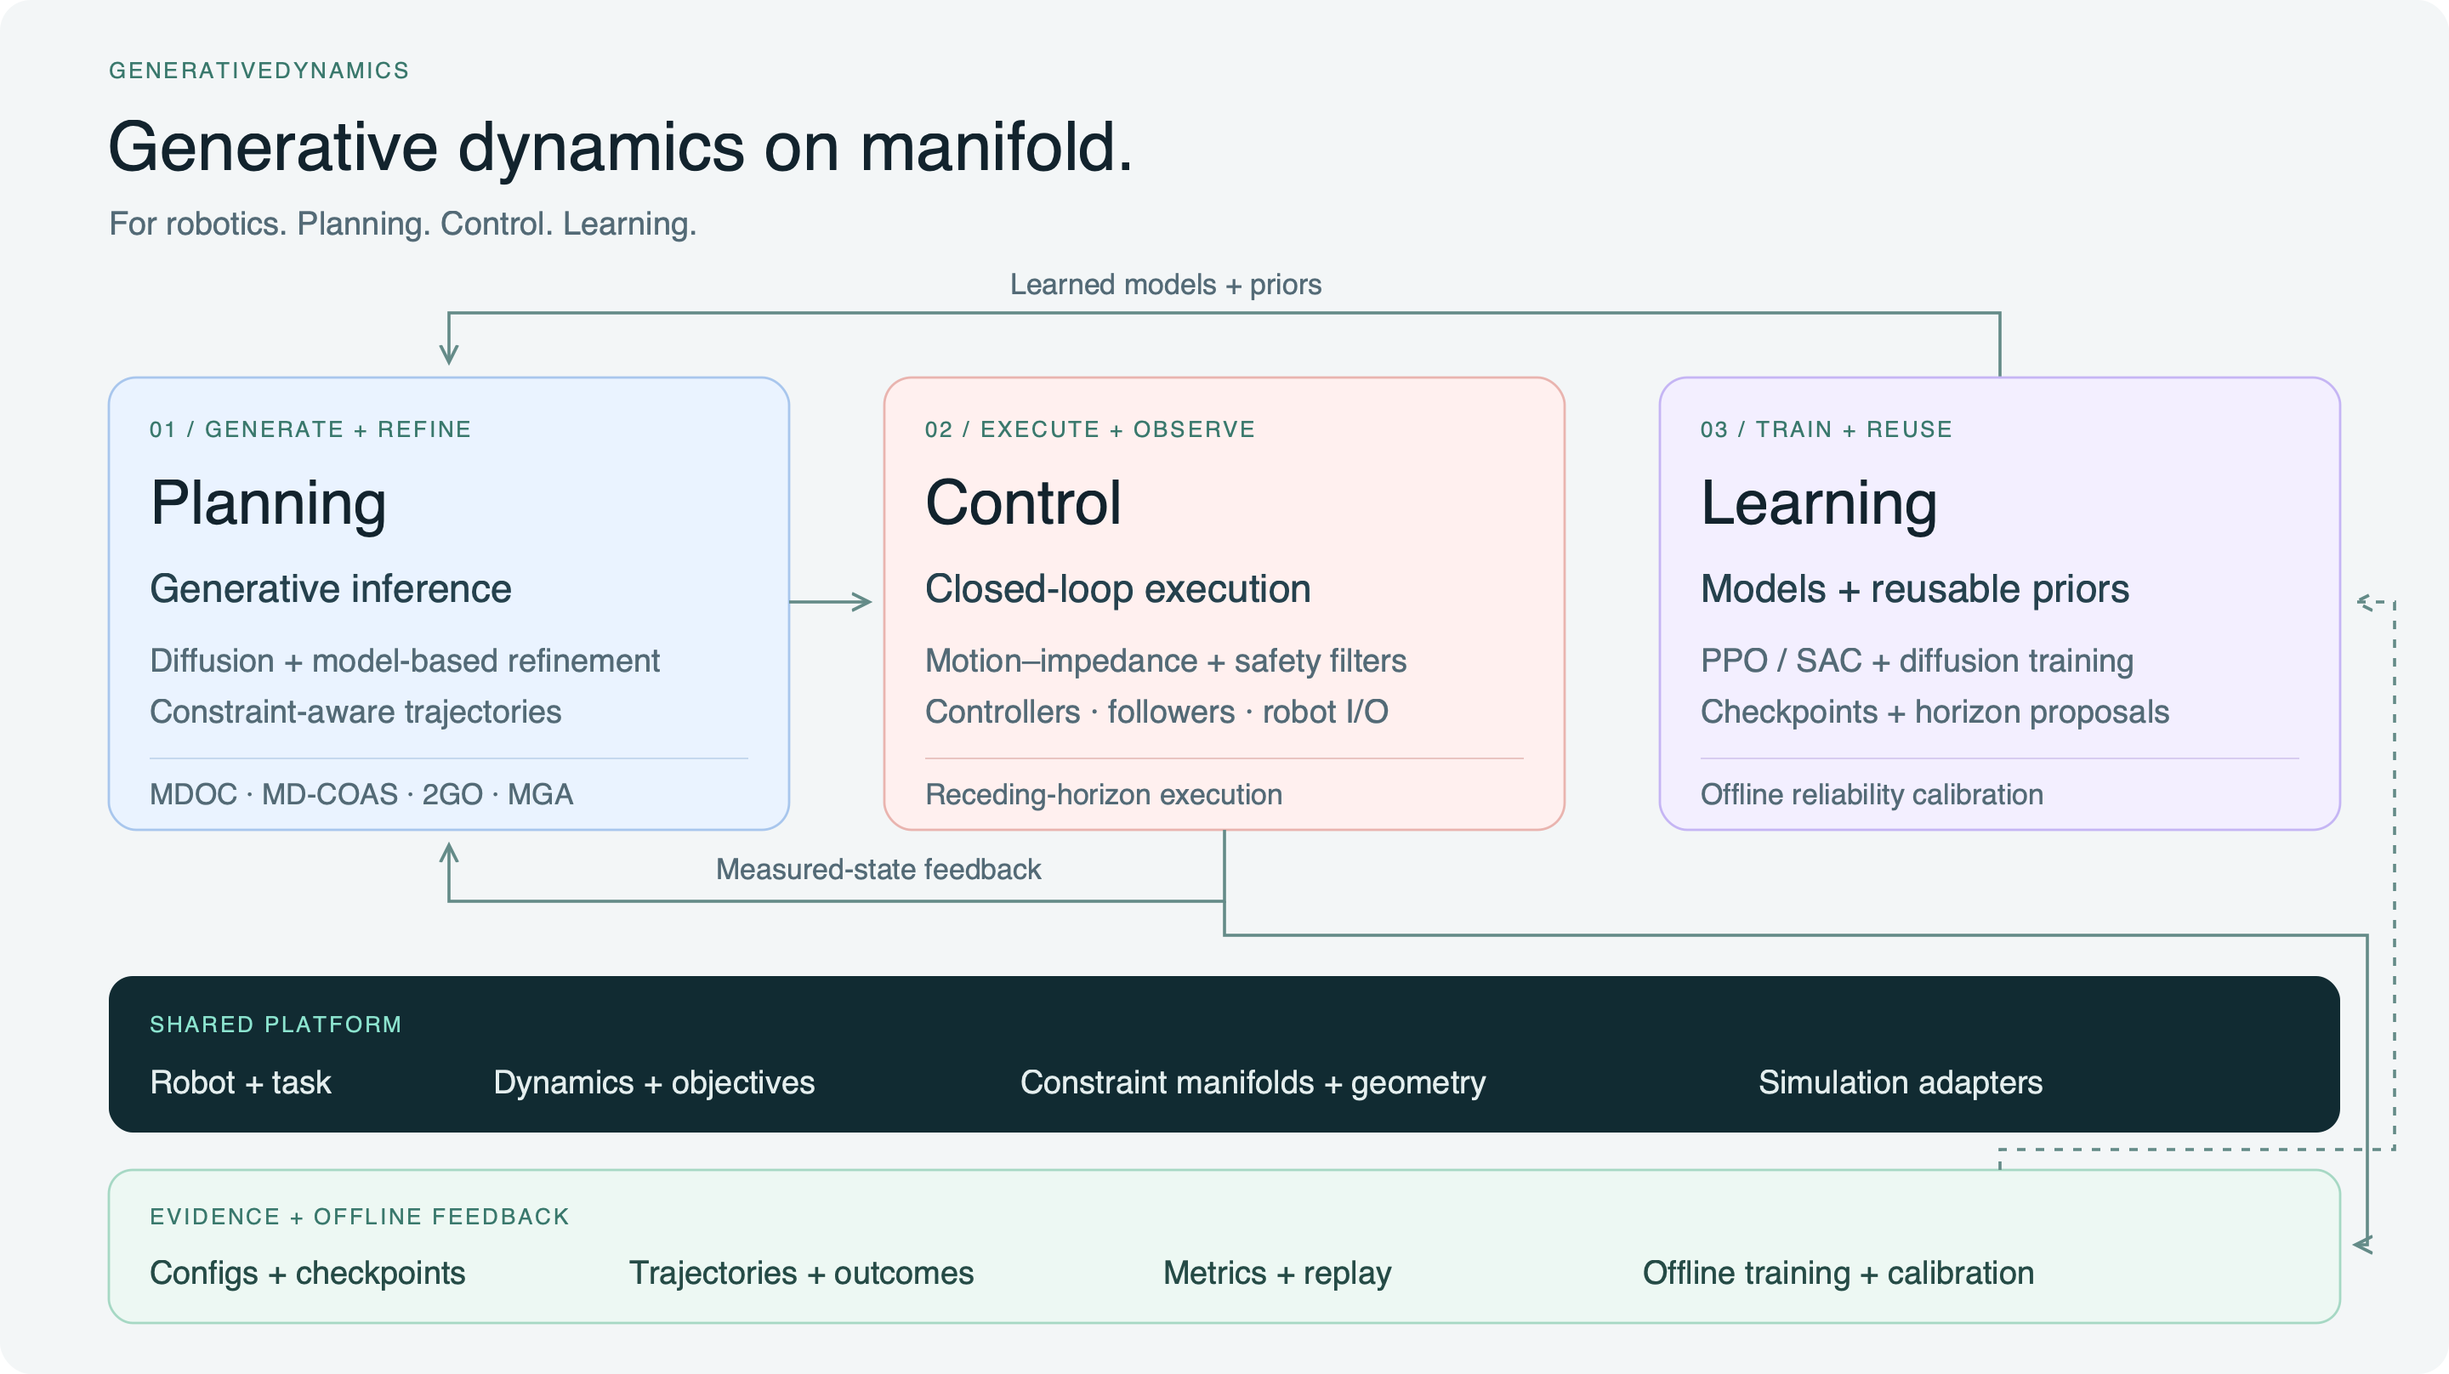
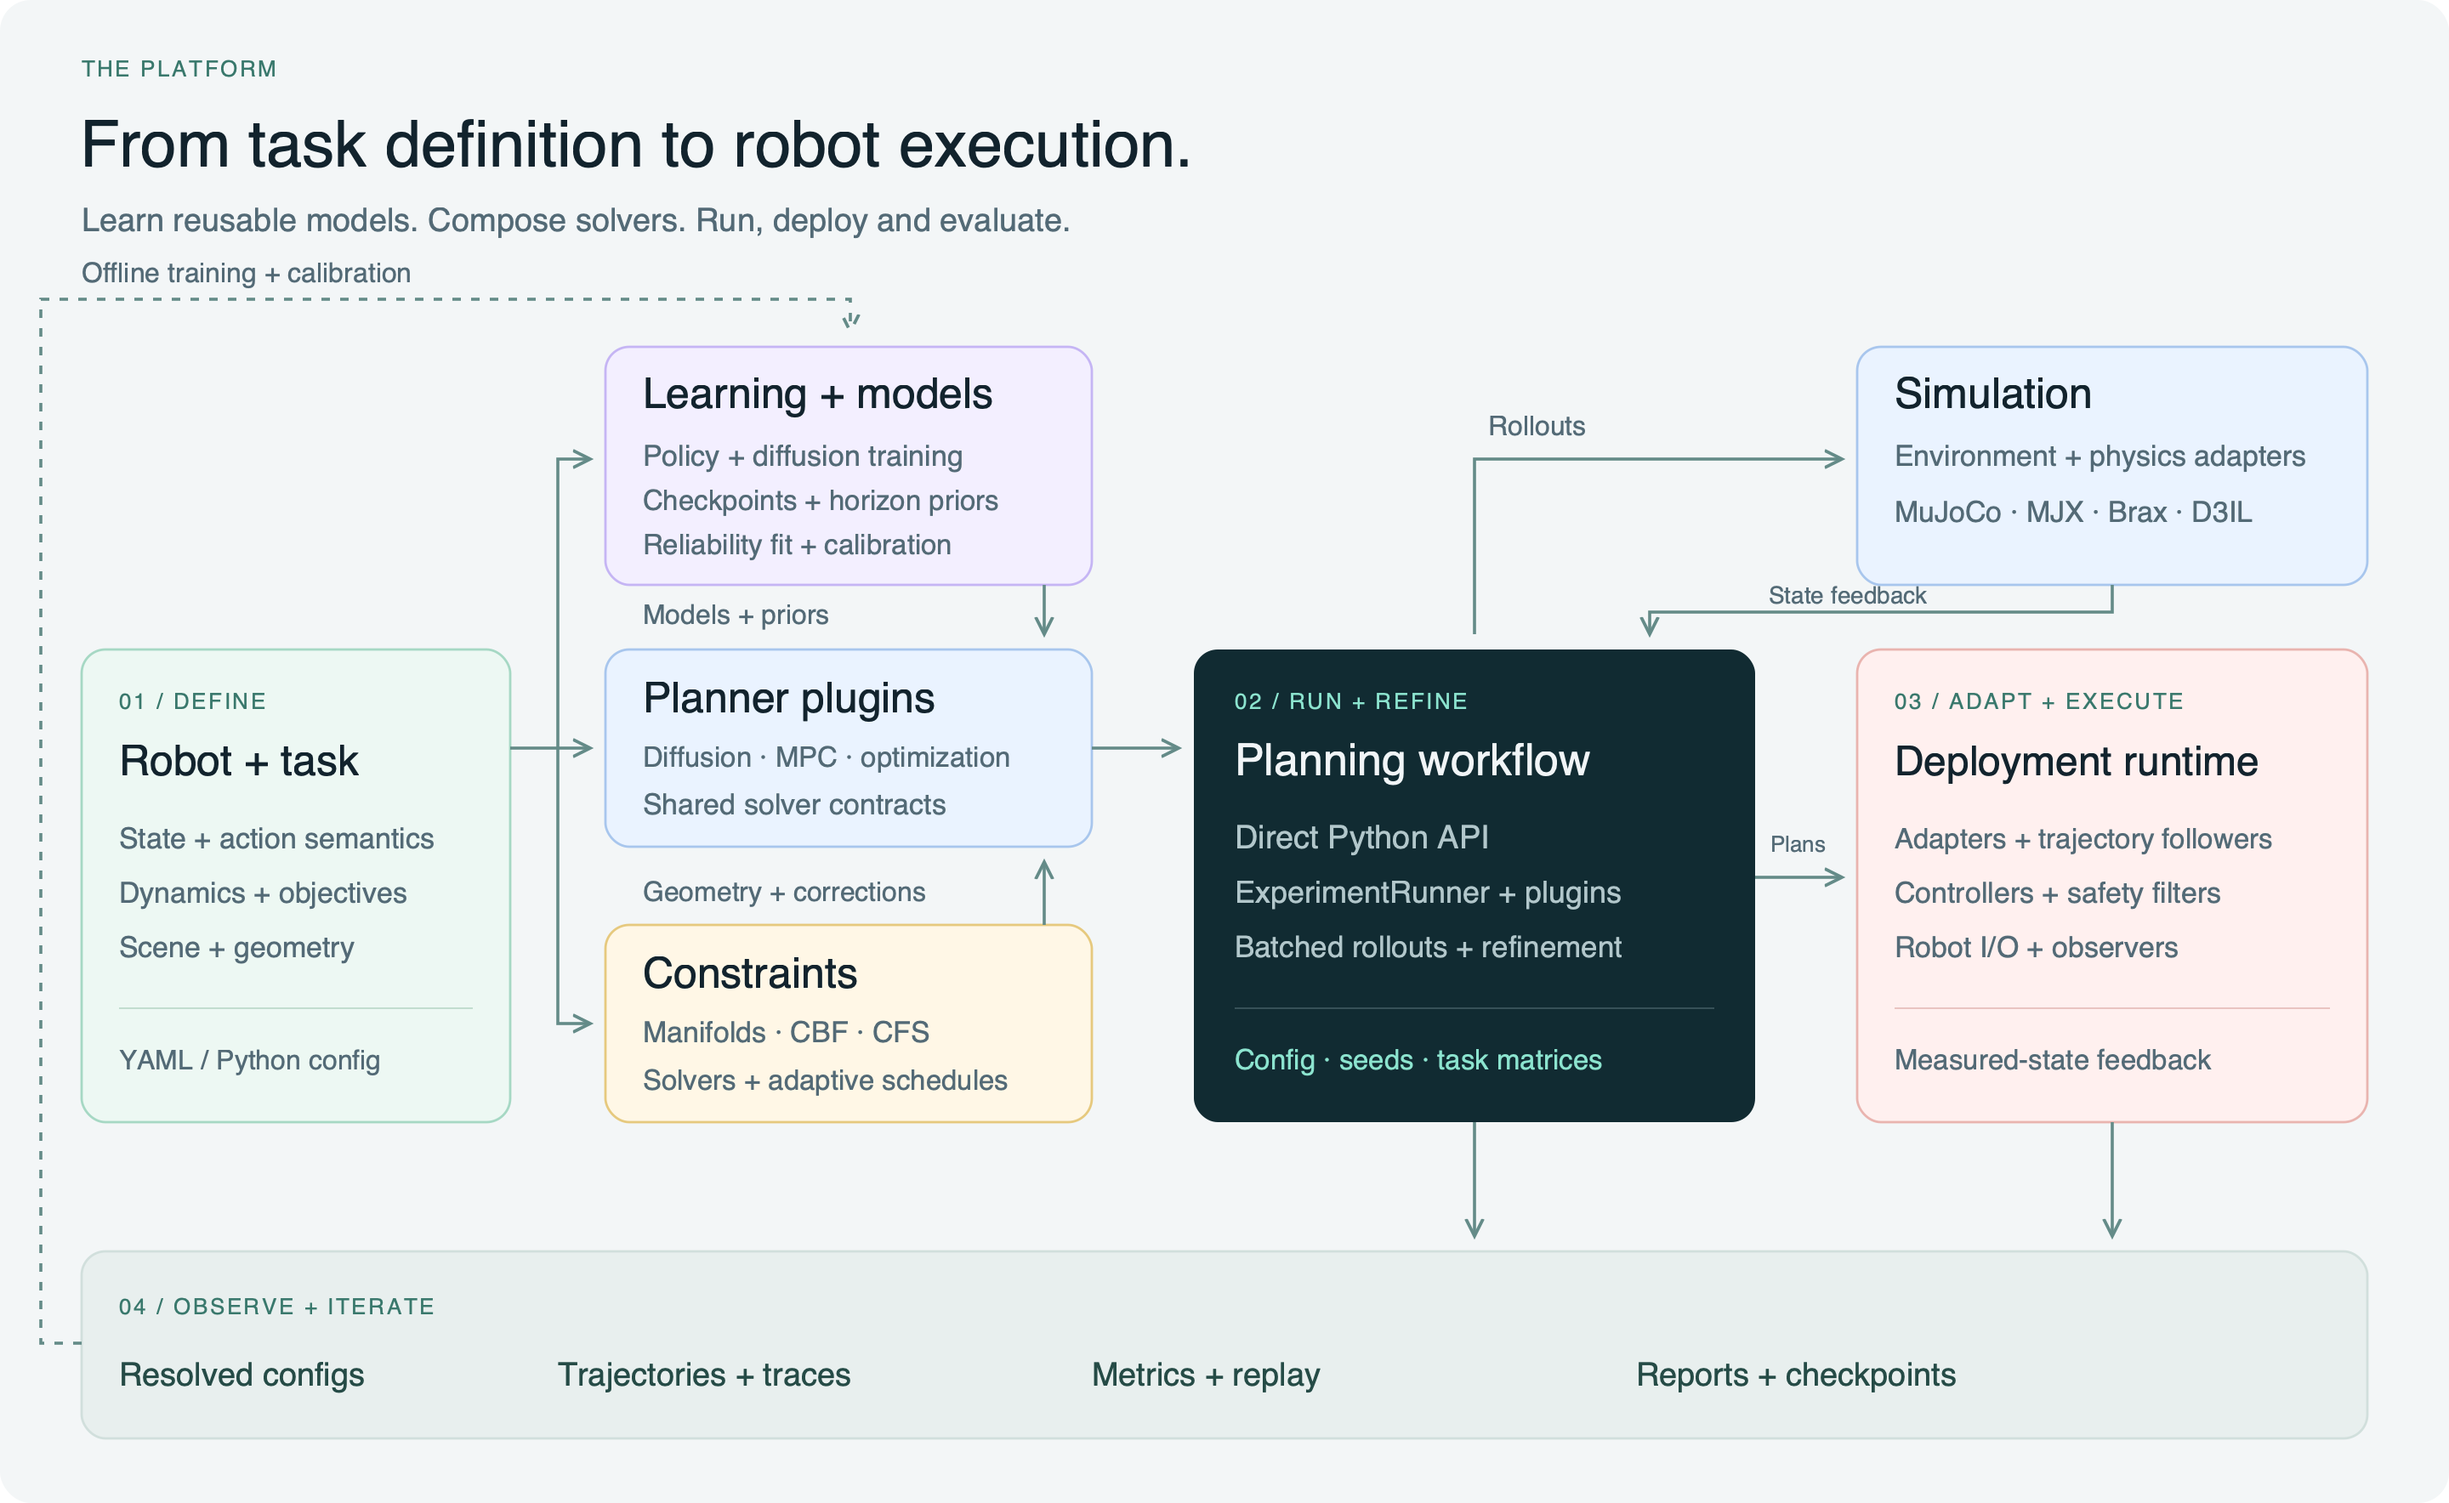
docs: restore full architecture workflow and remove old posters

diff --git a/README.md b/README.md
@@ -257,17 +257,17 @@ for tensor shapes, each planner's data flow and a runnable JAX batch example.
 
 ## 🏗 How the stack fits together
 
-<img src="docs/assets/architecture-overview.png" width="100%" alt="Three equal pillars: Planning, Control, and Learning. Learned models and priors feed generative planning; control closes the state-feedback loop; execution data supports offline learning and calibration. Task dynamics, constraint manifolds, geometry and simulation form the shared foundation.">
+<img src="docs/assets/architecture-overview.png" width="100%" alt="Complete workflow: define a robot task; compose planner plugins, Learning and models, constraints and geometry; run through the direct Python API or ExperimentRunner; connect simulation and the separate deployment runtime; observe results and feed recorded outcomes back to offline learning.">
 
-| Planning | Control | Learning |
-| --- | --- | --- |
-| Generative inference and trajectory optimization with dynamics, manifold geometry and constraints. | Motion–impedance control, followers, safety filters and robot I/O with measured-state feedback. | Policy and diffusion-model training, reusable priors and task-specific reliability calibration. |
+Define a **robot task**, then compose **planner plugins**, **constraints and
+geometry**, and **learned models or priors**. Run through the experiment framework
+or direct Python API. Environment adapters connect to simulation; explicit
+trajectory adapters connect selected plans to the separate deployment stack.
 
-**Learning → Planning:** learned models and PPO horizon priors guide generation.
-**Planning → Control:** selected trajectories become executable commands.
-**Control → Learning:** saved outcomes support explicit offline training and
-calibration. Each workflow selects the components it needs; model-based
-planners can also run without learned checkpoints.
+**Observers, metrics and replay** span the workflow. Saved trajectories and
+outcomes support offline policy training, diffusion-model training and
+reliability calibration. Each workflow selects the components it needs;
+model-based planners can also run without learned checkpoints.
 
 Read the [architecture guide](docs/concepts/architecture.md),
 [configure a task](docs/guides/configuration.md), or

diff --git a/docs/releases/v1_evidence.md b/docs/releases/v1_evidence.md
@@ -39,9 +39,9 @@ The final release-candidate wheel has:
 | Property | Value |
 | --- | --- |
 | Filename | `genedynamics-0.1.0-py3-none-any.whl` |
-| Size | 12,160,747 bytes |
+| Size | 12,160,715 bytes |
 | Files | 789 |
[2 lines of base64/hex data omitted]
 | Required package assets missing | 0 |
 | Forbidden V1 paths | 0 |
 | Twine metadata check | Passed |
@@ -105,10 +105,13 @@ The source and wheel inventory is stored in
 
 ## Manifold positioning and batched constraints — 2026-10-09
 
-- The homepage follows “Generative dynamics on manifold” and presents Planning,
-  Control and Learning as equal architecture pillars. A rendered PNG accompanies
-  the editable SVG source, so the displayed diagram has an explicit Learning
-  module across GitHub and the documentation site.
+- The homepage follows “Generative dynamics on manifold” and shows the complete
+  task-to-execution workflow: task definitions, planners, learning, constraints,
+  the planning workflow, simulation, deployment and evaluation. A rendered PNG
+  accompanies the editable SVG, with Learning explicitly connected to planner
+  priors and offline evaluation feedback.
+- The obsolete 2GO corridor and stepping-stone poster images were removed; the
+  unified demonstration gallery is unchanged.
 - The batch guide documents candidate, horizon and refinement axes, CBF/CFS and
   manifold feedback, MGA learned proposals, and DPCC/SafeDiffuser integration
   boundaries. Its JAX example ran with shape `(64, 20, 2)` and maximum residual

diff --git a/docs/concepts/architecture.md b/docs/concepts/architecture.md
@@ -1,7 +1,10 @@
 # Architecture
 
 GenerativeDynamics implements **generative dynamics on manifold** for robotics
-planning, control and learning through replaceable components. Learned policies and trajectory models supply
+planning, control and learning through replaceable components. Define a task,
+compose planners, constraints and learned models, then run through the direct
+Python API or experiment framework. Explicit adapters connect selected plans
+to the separate deployment runtime. Learned policies and trajectory models supply
 proposals; model-based objectives and constraints shape online generation;
 controllers execute the selected result and return the next measured state.
 

diff --git a/CHANGELOG.md b/CHANGELOG.md
@@ -4,6 +4,9 @@ This project follows semantic versioning after the first public tag.
 
 ## Unreleased
 
+- Restores the complete task-to-execution architecture workflow, with learning, constraints, simulation, deployment and evaluation connected explicitly.
+- Removes the obsolete 2GO corridor and stepping-stone poster images.
+
 - Aligns the homepage with generative dynamics on manifold and gives Planning, Control and Learning equal prominence.
 - Explains batched constraints inside generative sampling, including learned diffusion integrations.
 - Repairs the unfetchable Menagerie submodule pin and preserves the local Go2 MJX adaptation as an idempotent patch.

diff --git a/docs/index.md b/docs/index.md
@@ -59,7 +59,7 @@ scheduling, and closed-form, JAXopt OSQP, OSQP and CVXOPT numerical solvers.
 | Understand or extend the interfaces | [Architecture](concepts/architecture.md) · [Plugin development](guides/adding-a-plugin.md) |
 | Check support or upcoming integrations | [Compatibility](reference/compatibility.md) · [Roadmap](reference/roadmap.md) |
 
-![Planning, Control and Learning on a shared platform](assets/architecture-overview.png)
+![Complete task, learning, planning, simulation, deployment and evaluation workflow](assets/architecture-overview.png)
 
 ## 📍 Release status
 
